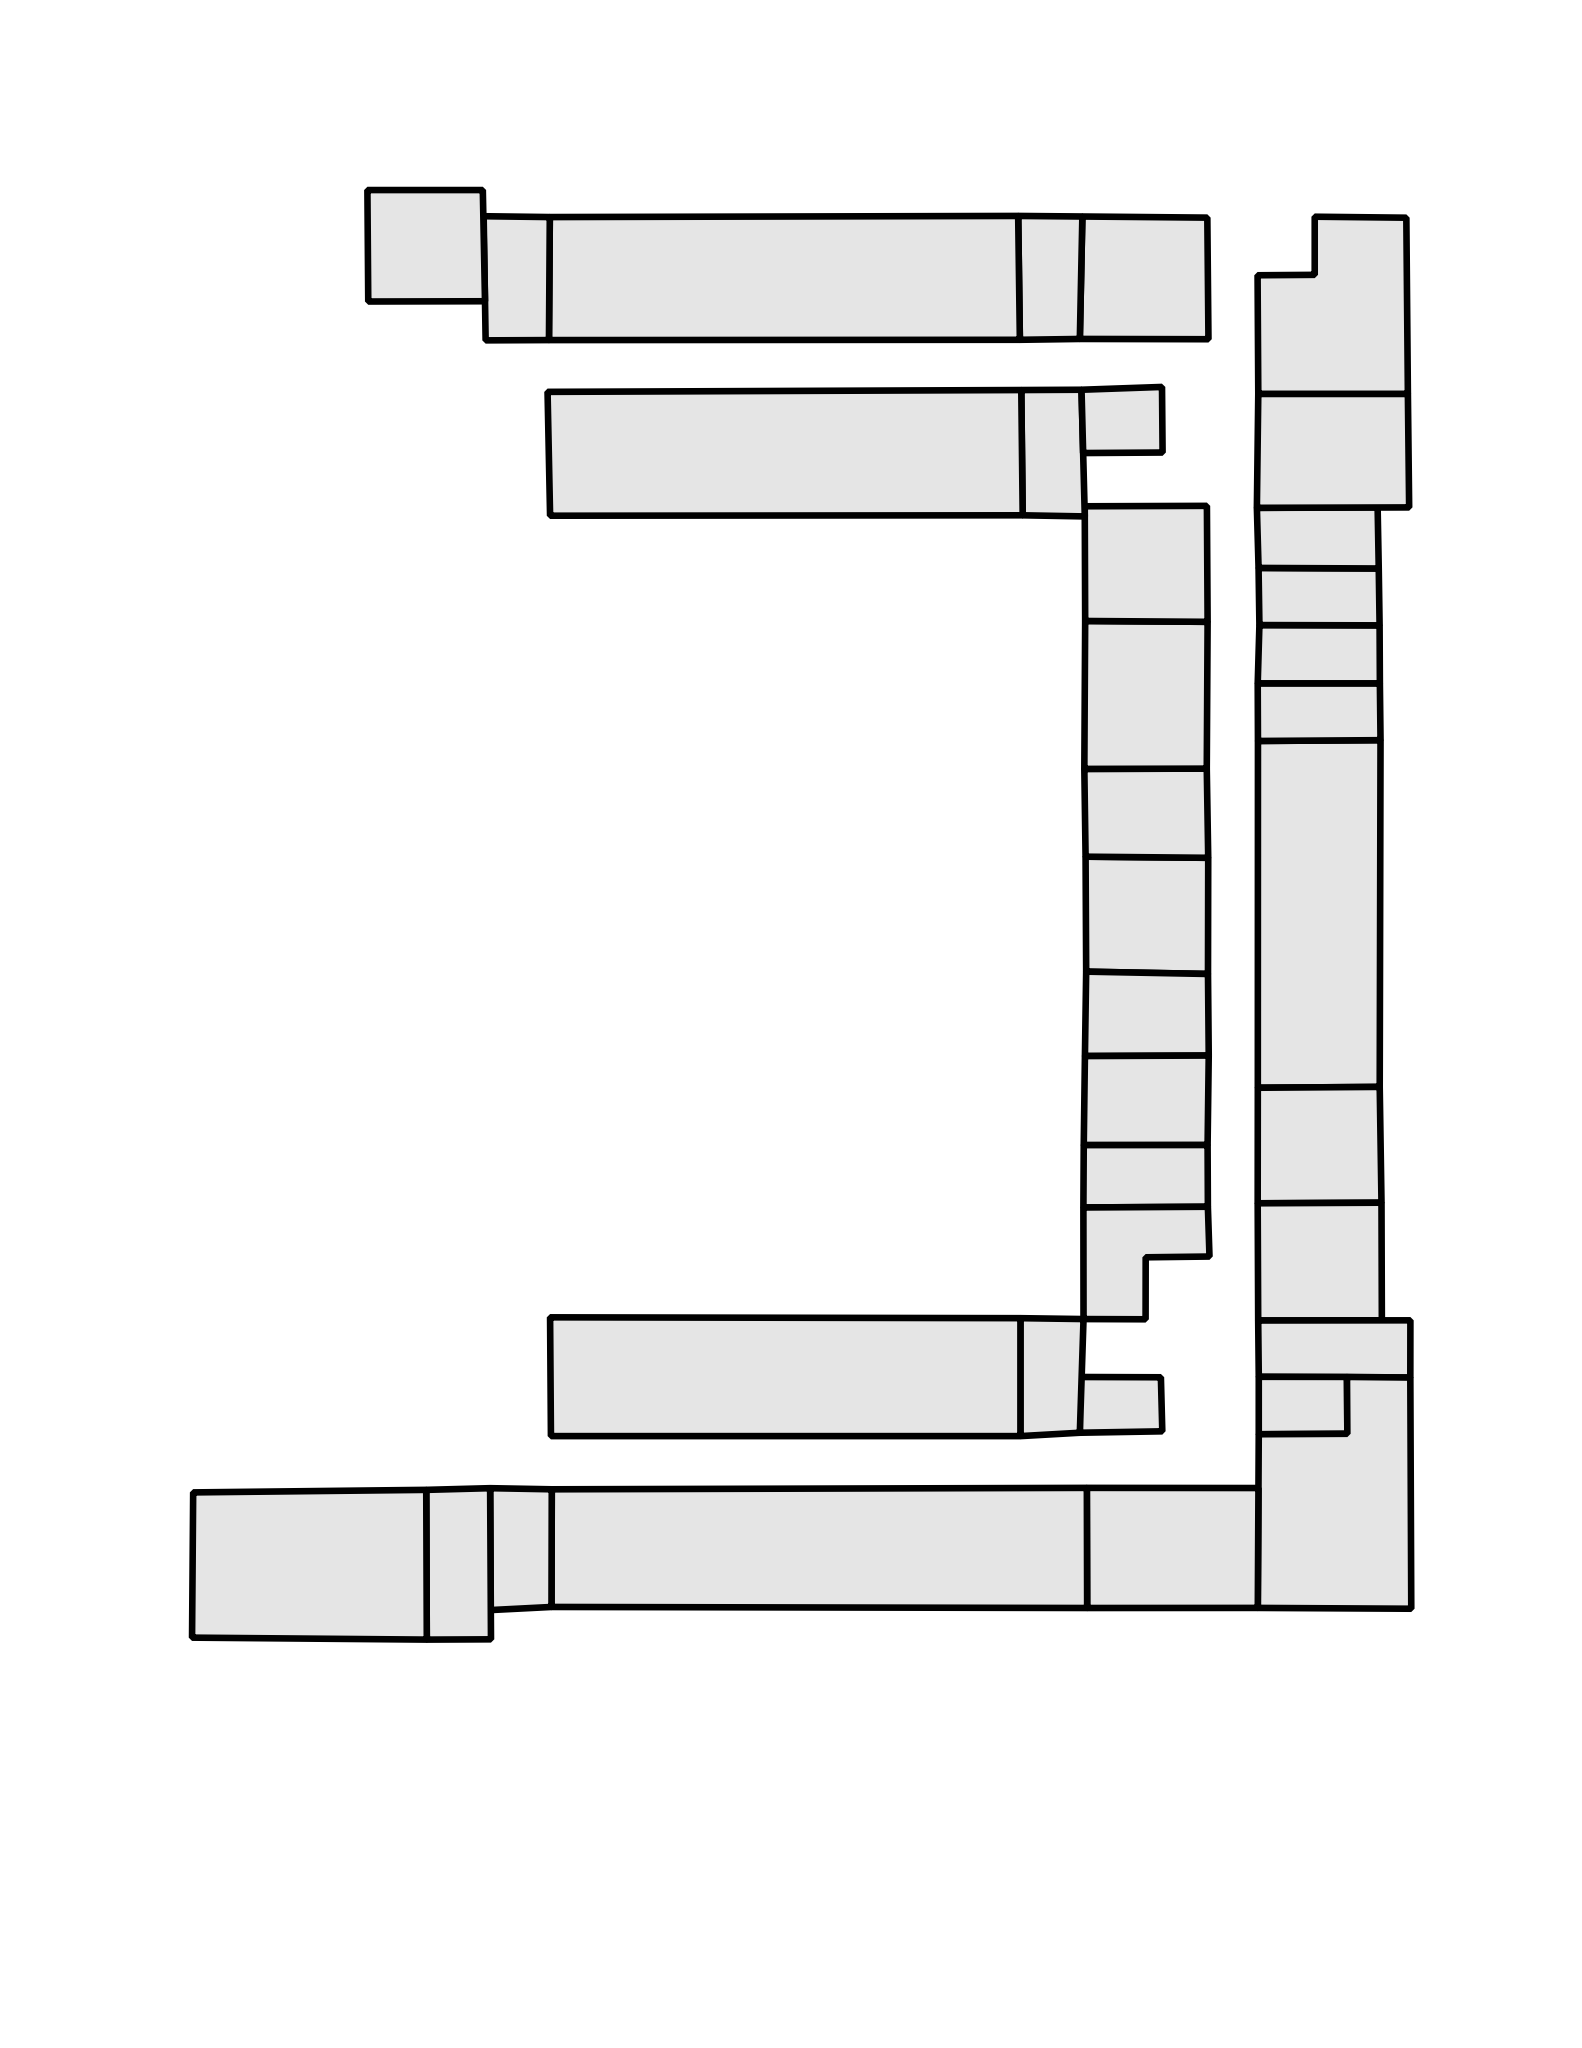
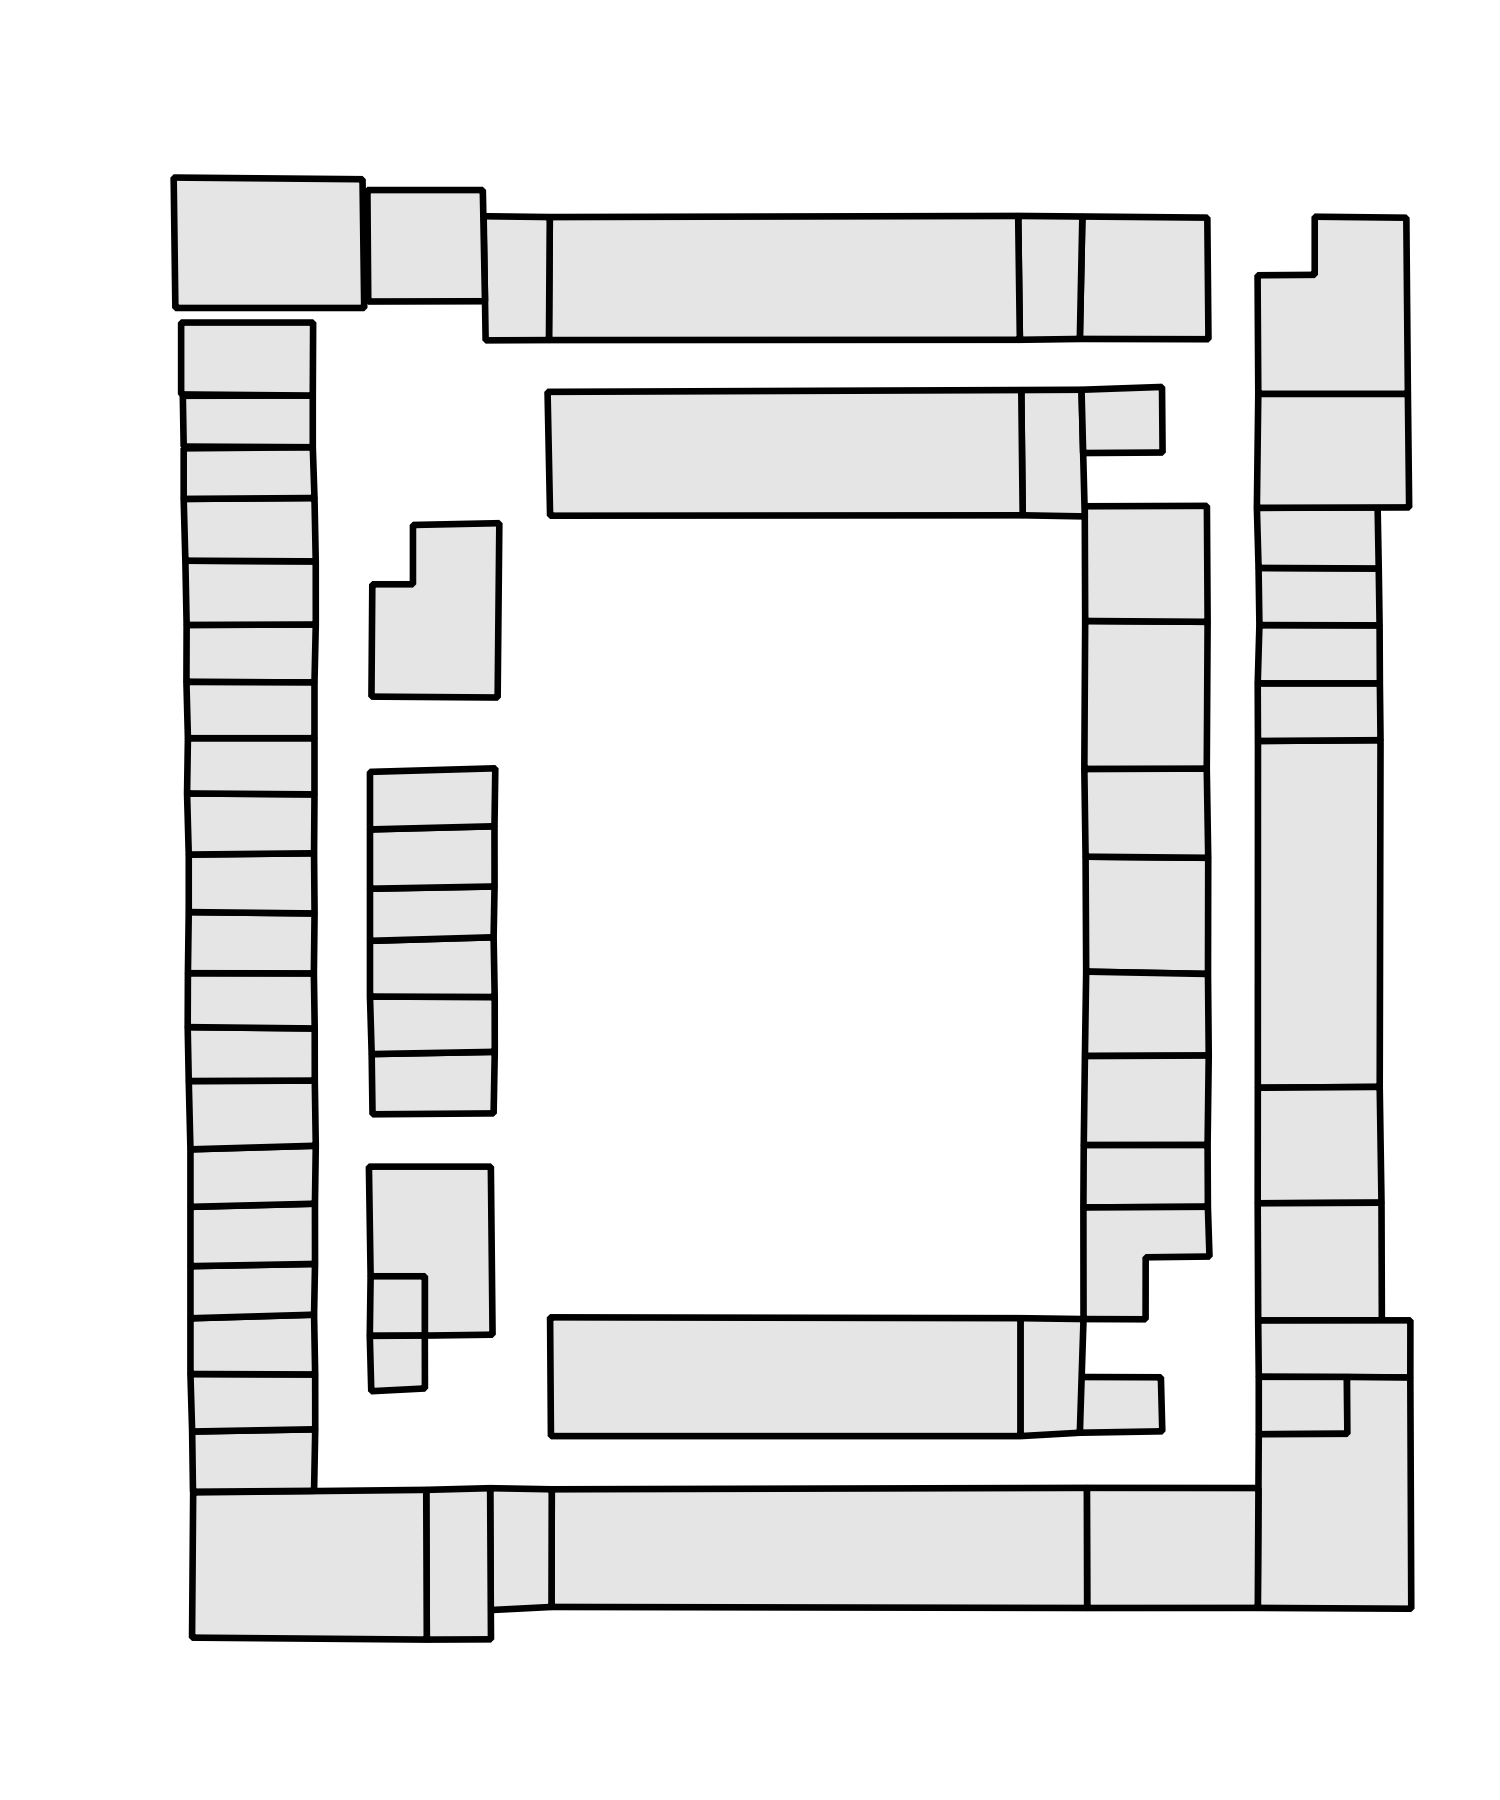
Data, image updates for boelter/ms

diff --git a/indoor/load.py b/indoor/load.py
@@ -44,8 +44,13 @@ INDOOR_BUILDINGS = [
     },
     {
         'name': 'boelter',
-        'floors': ['4', '5'],
+        'floors': ['4', '5', '6'],
         'landmark_id': 67,
+    },
+    {
+        'name': 'ms',
+        'floors': ['5'],
+        'landmark_id': 417,
     },
 ]
 
